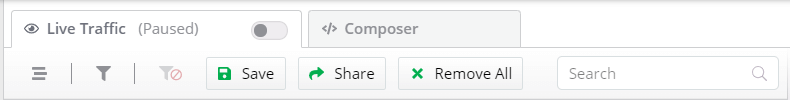
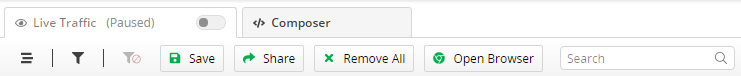
docs: update the advanced filters section

diff --git a/user-guide/live-traffic.md b/user-guide/live-traffic.md
@@ -29,13 +29,15 @@ To start capturing traffic, enable **Live Traffic** by switching to the **Captur
 
 The **Live Traffic** toolbar provides the following functionalities:
 
-- [Streaming](#streaming)
-- [Advanced filters](#advanced-filters)
-- [Clearing all filters](#clearing-all-filters)
-- [Saving](#saving)
-- [Sharing](#sharing)
-- [Removing all](#removing-all)
-- [Searching](#searching)
+- [Streaming](#streaming) (**Stream**)
+- [Advanced filters](#advanced-filters) (**Advanced Filters**)
+- [Clearing all filters](#clearing-all-filters) (**Clear All Filters**)
+- [Saving](#saving) (**Save**)
+- [Sharing](#sharing) (**Share**)
+- [Removing all](#removing-all) (**Remove All**)
+- [Searching](#searching) (**Search**)
+- [Preconfigured Browser Capturing](#preconfigured-browser-capturing) (**Open Browser**)
+
 
 ### Streaming
 
@@ -49,21 +51,27 @@ To toggle between the buffering and the streaming mode, click the **Stream** but
 
 ### Advanced Filters
 
-To apply filters based on the **Request** and **Response** headers, use the **Advanced Filters**. Only sessions that are covering the filter criteria will appear in the **Live Traffic** list.
+Use the **Advanced Filters** to apply filters based on the **Request** and **Response** headers. Only sessions that cover the filter criteria will appear in the **Live Traffic** list.
 
-The **Advanced Filters** entries use the **AND** logical operator. Each value complies with the **EXACT** match.
+The **Advanced Filters** entry uses several different logical constructions to create a matching condition.
 
-To set the advanced filters:
+Set the advanced filters as follows:
 
-1. Click the **Filter** button to open the advanced filters popup windows.
-2. The **Advanced Filters** window allows you to set specific criteria that will filter the captured traffic. Set the filter rules and click **Apply**.
+1. Click the **Advanced Filters** button to open the advanced filters popup window.
 
-    ![Advanced filters popup](../images/livetraffic/websessions/websessions-toolbar-filter-popup.png)
+1. The **Advanced Filters** window allows you to set specific criteria to filter the captured traffic.
+
+1. Set the **When** rule based on one of the following statements:
+    - **all these conditions**&mdash;The rule applies when all conditions are true (logical TRUE).
+    - **Any of these conditions**&mdash;The rule applies when any conditions are true (logical OR).
+    - **None of these conditions**&mdash;The rule applies when none of the conditions is true (logical FALSE).
+
+1. Add one or more conditions based on the HTTP Request and Response headers and provide logical operators.
+
+1. Click **Apply** to close the **Advanced Filters** and activate the newly created filter.    
 
 
-Currently, the **Advanced Filters** entries are using the **AND** logical operator. Each value is complying with the **EXACT** match.
-
->tip Alternatively, you can apply filters through the **more** option (three vertical dots) on each Live Traffic column (for example, apply a filter for the _Host_ column ). The column filtering allows you to use the AND and OR logical operators (for two lines) and multiple comparison rules (for example, **Is equal to**, **contains**, **ends with**, etc.). Learn more about [individual column sorting and filtering options](#sort-and-filter-traffic).
+>tip Alternatively, you can apply filters through the **more** option (three vertical dots) on each Live Traffic column (for example, apply a filter for the _Host_ column ). The column filtering allows you to use the AND and OR logical operators (for two lines) and multiple logical operators (for example, **Is equal to**, **contains**, **ends with**, etc.). Learn more about [individual column sorting and filtering options](#sort-and-filter-traffic).
 
 
 ### Clearing All Filters
@@ -104,6 +112,10 @@ To remove all captured sessions, use the **Remove All** button, which will autom
 ### Searching
 
 To search for specific values in the URL and the headers of all sessions, use the **Search** text input. The search action will immediately filter and show all sessions, which contain the search terms.
+
+### Preconfigured Browser Capturing
+
+Use the **Open Browser** button to capture traffic from a specific browser instance without the need to modify the system proxy settings. [Learn more about the preconfigured browser capturing...]({%slug capture-traffic-get-started%}#preconfigured-browser-capturing)
 
 ## Live Traffic List
 
